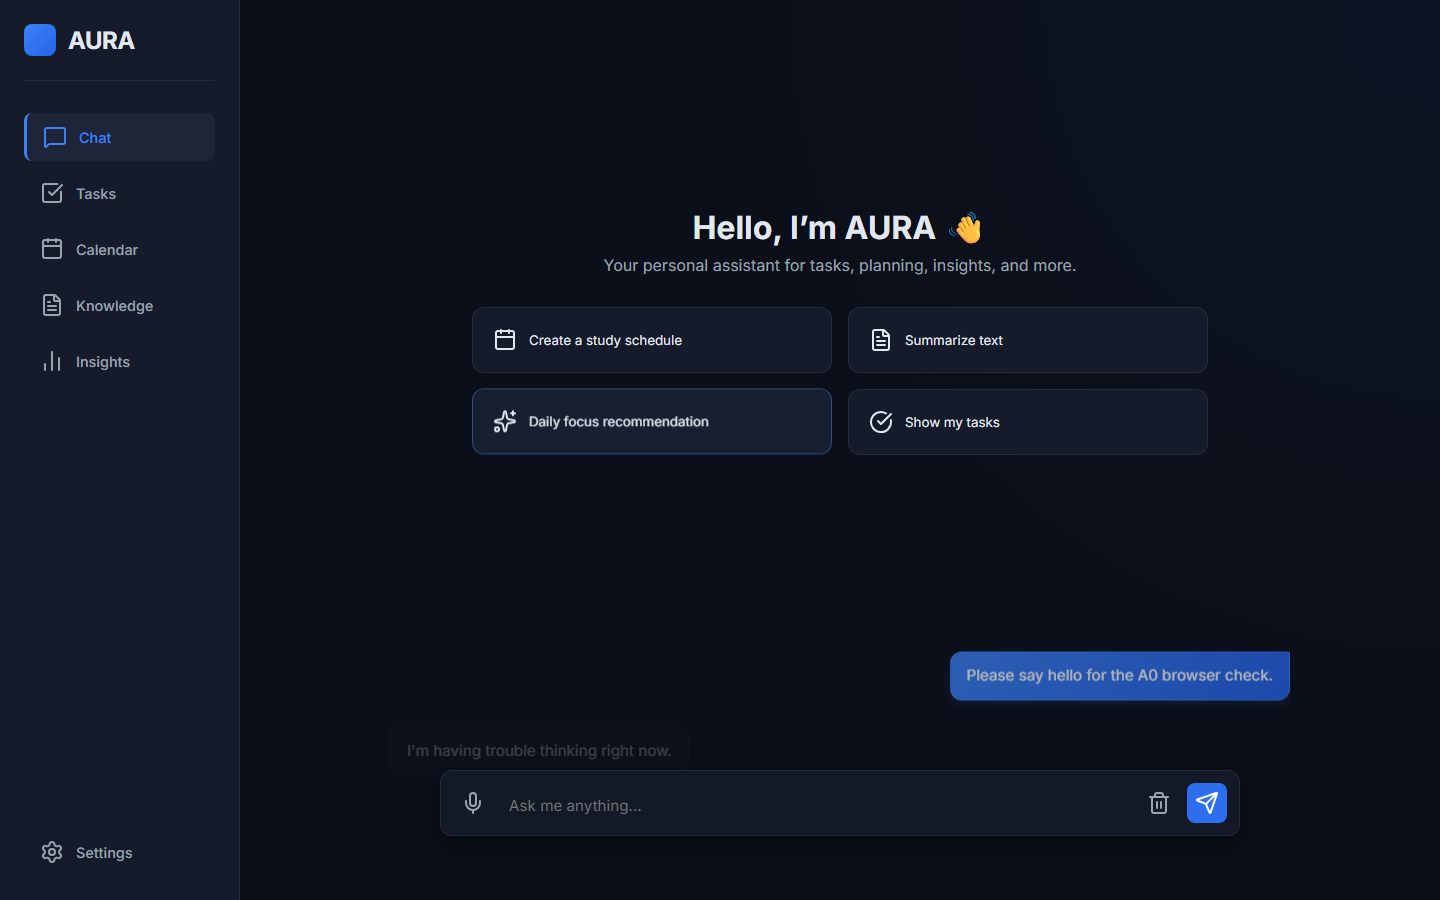
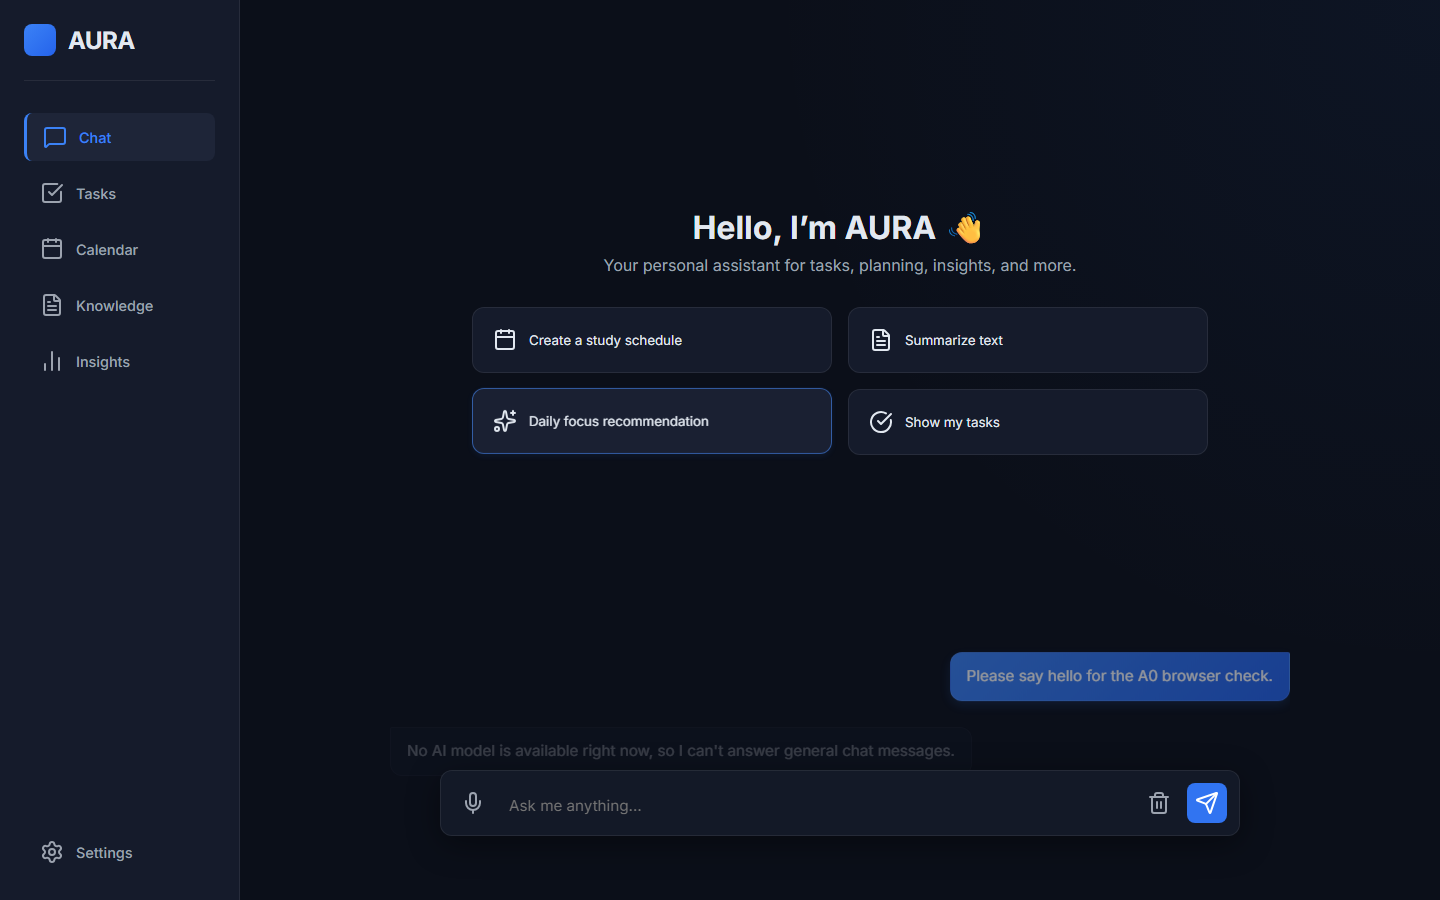
fix: polish A0 chat fallback and mobile composer

Changed region(s): [[0.6562, 0.7156, 0.9062, 0.7778], [0.4375, 0.8089, 0.6562, 0.84], [0.2812, 0.8089, 0.4062, 0.84]]

diff --git a/frontend/css/styles.css b/frontend/css/styles.css
@@ -1430,3 +1430,13 @@ textarea {
         grid-template-columns: 1fr;
     }
 }
+
+@media (max-width: 360px) {
+    .input-area {
+        width: calc(100% + 1rem);
+    }
+
+    .input-container {
+        gap: 0.25rem;
+    }
+}

diff --git a/tests/browser/test_frontend_smoke.py b/tests/browser/test_frontend_smoke.py
@@ -41,6 +41,7 @@ _VIEWPORTS = (
     (390, 844),
     (320, 844),
 )
+NO_MODEL_CHAT_RESPONSE = "No AI model is available right now, so I can't answer general chat messages."
 _PROJECT_ROOT = Path(__file__).resolve().parents[2]
 
 
@@ -515,6 +516,13 @@ def test_chat_returns_a_real_graceful_no_model_response(
 ) -> None:
     _sign_in(browser_session, browser_account)
     page = browser_session.page
+    chat_responses: list[object] = []
+    page.on(
+        "response",
+        lambda response: chat_responses.append(response)
+        if urlsplit(response.url).path == "/api/chat"
+        else None,
+    )
     page.locator("#chat-input").fill("Please say hello for the A0 browser check.")
     page.locator(".send-btn").click()
     response = page.locator(".message.assistant .message-content").last
@@ -523,12 +531,77 @@ def test_chat_returns_a_real_graceful_no_model_response(
         "() => !document.querySelector('.message.assistant.loading')"
     )
     response_text = response.inner_text().strip()
-    assert response_text
-    assert "I encountered an error" not in response_text
+    assert response_text == NO_MODEL_CHAT_RESPONSE
+    assert chat_responses, "The authenticated Chat API did not return a response."
+    api_response = chat_responses[-1]
+    assert api_response.status == 200
+    api_payload = api_response.json()
+    assert api_payload["response"] == NO_MODEL_CHAT_RESPONSE
+    assert isinstance(api_payload.get("action_taken"), str)
+    assert isinstance(api_payload.get("data"), dict)
+    assert isinstance(api_payload.get("suggestions"), list)
     _capture(browser_session, "chat-1440x900.png")
-    page.set_viewport_size({"width": 390, "height": 844})
-    page.wait_for_timeout(350)
-    _capture(browser_session, "chat-390x844.png")
+
+    geometry: list[dict[str, object]] = []
+    for width, height in ((390, 844), (320, 844)):
+        page.set_viewport_size({"width": width, "height": height})
+        page.locator("#chat-history").evaluate(
+            "element => { element.scrollTop = element.scrollHeight; }"
+        )
+        page.wait_for_timeout(350)
+        message_bounds = response.bounding_box()
+        composer_bounds = page.locator(".input-area").bounding_box()
+        history_bounds = page.locator("#chat-history").bounding_box()
+        input_geometry = page.locator("#chat-input").evaluate(
+            """element => {
+                const style = getComputedStyle(element);
+                const canvas = document.createElement('canvas');
+                const context = canvas.getContext('2d');
+                context.font = style.font;
+                return {
+                    width: element.getBoundingClientRect().width,
+                    height: element.getBoundingClientRect().height,
+                    available_width: element.clientWidth
+                        - parseFloat(style.paddingLeft)
+                        - parseFloat(style.paddingRight),
+                    placeholder_width: context.measureText(element.placeholder).width,
+                };
+            }"""
+        )
+        assert message_bounds is not None
+        assert composer_bounds is not None
+        assert history_bounds is not None
+        message_bottom = message_bounds["y"] + message_bounds["height"]
+        assert message_bottom <= composer_bounds["y"], (
+            f"Assistant message is obscured by the composer at {width}x{height}: "
+            f"message={message_bounds}, composer={composer_bounds}"
+        )
+        history_bottom = history_bounds["y"] + history_bounds["height"]
+        assert history_bounds["y"] <= message_bounds["y"]
+        assert message_bottom <= history_bottom
+        assert input_geometry["placeholder_width"] <= input_geometry["available_width"], (
+            f"Composer placeholder is clipped at {width}x{height}: {input_geometry}"
+        )
+        assert composer_bounds["x"] >= 0
+        assert composer_bounds["x"] + composer_bounds["width"] <= width
+        assert composer_bounds["y"] + composer_bounds["height"] <= height
+        geometry.append(
+            {
+                "width": width,
+                "height": height,
+                "assistant_message": message_bounds,
+                "composer": composer_bounds,
+                "input": input_geometry,
+                "vertical_gap": composer_bounds["y"] - message_bottom,
+            }
+        )
+        _capture(browser_session, f"chat-{width}x{height}.png")
+
+    evidence_dir = os.getenv("AURA_BROWSER_EVIDENCE_DIR")
+    if evidence_dir:
+        geometry_path = Path(evidence_dir) / "chat-geometry-measurements.json"
+        geometry_path.parent.mkdir(parents=True, exist_ok=True)
+        geometry_path.write_text(json.dumps(geometry, indent=2), encoding="utf-8")
     _assert_no_uncaught_errors(browser_session)
 
 

diff --git a/backend/app/services/chat_service.py b/backend/app/services/chat_service.py
@@ -5,6 +5,7 @@ from datetime import datetime, timedelta
 
 from sqlalchemy.orm import Session
 
+from ..config import config
 from ..database import utc_now
 from ..models.llm_models import llm
 from ..models.sql_models import ChatHistory, Task, User
@@ -872,6 +873,13 @@ END UNTRUSTED RETRIEVED DOCUMENT DATA
     async def handle_general_chat(
         self, user_id: int, message: str, db: Session, context: dict = None
     ):
+        if llm.llm is None and not config.model_path.is_file():
+            return {
+                "response": "No AI model is available right now, so I can't answer general chat messages.",
+                "action_taken": "error",
+                "data": {},
+            }
+
         try:
             # Get user context (tasks)
             task_context = self.get_user_context(user_id, db)

diff --git a/docs/evidence/a0-foundation/A0_R1_REVIEW.md b/docs/evidence/a0-foundation/A0_R1_REVIEW.md
@@ -1,0 +1,41 @@
+# A0-R1 Final Corrective Pass
+
+## Scope and repository state
+
+The pass started on `feat/a0-foundation` at `823ef470c8ae231abdb78dffe431293f0d5210ab` with a clean working tree. It changes only the no-model general-chat response, the 320px composer layout and its browser regression, and the CI push branch filter. No security test files or authentication code changed.
+
+## Corrections
+
+- General chat now returns: `No AI model is available right now, so I can't answer general chat messages.` when no model is loaded or configured. The response remains an authenticated HTTP 200 with the existing `response`, `action_taken`, `data`, and `suggestions` fields. No internal exception or model path is returned to the user.
+- The real-browser test asserts that exact message from both the UI and authenticated `/api/chat` response, checks the response shape, and verifies no assistant-message/composer overlap or clipped composer placeholder at 390×844 and 320×844.
+- At 320px, the placeholder previously measured 133px while the textarea had only 95px of content width. A max-width 360px CSS rule widens the composer by 1rem and reduces its internal gap. The placeholder now has 138px of available width. At both widths the assistant message ends 14px above the composer.
+- CI push triggers now include `feat/**` in addition to `main`. The existing unrestricted pull-request trigger and all job definitions remain unchanged. No deployment job or step was added.
+
+## Verification
+
+Commands below ran with the clean Windows environments recorded in `TEST_RESULTS.md`.
+
+| Command | Result |
+|---|---|
+| `python -m pytest tests/browser/test_frontend_smoke.py -m browser -k test_chat_returns_a_real_graceful_no_model_response -q --tb=short` | `1 passed, 6 deselected` after the fix; the exact API/UI fallback and both geometry assertions passed. |
+| `python -m pytest -m "not browser" -q --tb=short` on Python 3.11.7 | `97 passed, 7 deselected, 3 warnings` in 21.00s. |
+| `python -m pytest -m "not browser" -q --tb=short` on Python 3.12.10 | `97 passed, 7 deselected, 4 warnings` in 22.21s. |
+| `python -m pytest -m browser -q --tb=short` on Python 3.11.7 | `7 passed, 97 deselected, 3 warnings` in 45.46s. |
+| `python -m compileall -q backend tests scripts` | Passed. |
+| `python -m ruff check backend tests scripts --select E4,E7,E9,F` | Passed. |
+| `node --check` across `frontend/` JavaScript files | 14 files passed. |
+| `node tests/frontend_contracts.test.mjs` | Passed. |
+| PyYAML parse and trigger assertion for `.github/workflows/ci.yml` | Passed; verified `main`, `feat/**`, and `pull_request`. |
+| `git diff --check` | Passed. |
+
+The backend suites still include all existing security tests; no security test files were removed or altered. Hosted CI was not run because the branch was not pushed.
+
+## Evidence
+
+- `final/chat-targeted-test.txt` — final affected browser test.
+- `final/a0-r1-py311-backend.txt` and `final/a0-r1-py312-backend.txt` — complete backend runs.
+- `final/a0-r1-browser-suite.txt` — complete browser run.
+- `final/a0-r1-static-checks.txt` — compile, lint, frontend, and CI trigger checks.
+- `final/chat-geometry-measurements.json` — message, composer, and input geometry at both requested viewports.
+- `final/screenshots/chat-390x844.png` and `final/screenshots/chat-320x844.png` — final browser captures.
+- `final/chat-geometry-red.txt` — regression failure before the narrow-screen CSS correction, showing the clipped 320px placeholder.

diff --git a/docs/evidence/a0-foundation/SOURCE_CHANGES.md b/docs/evidence/a0-foundation/SOURCE_CHANGES.md
@@ -2,13 +2,14 @@
 
 ## Application and configuration changes
 
-- `.github/workflows/ci.yml` — Linux Python 3.11/3.12 checks, Windows Python 3.12 compatibility, frontend checks, and Playwright browser regressions. The existing localhost container smoke job was retained; no external deployment was performed.
+- `.github/workflows/ci.yml` — Linux Python 3.11/3.12 checks, Windows Python 3.12 compatibility, frontend checks, and Playwright browser regressions; A0-R1 also enables pushes to `feat/**`. The existing pull-request trigger and localhost container smoke job were retained; no external deployment was performed.
 - `backend/app/main.py` — equivalent FastAPI lifespan compatibility for current Starlette and gzip compression scoped to static-file responses; removed remote CDN hosts from CSP.
+- `backend/app/services/chat_service.py` — return a clear no-AI-model response for general chat when no model is loaded or configured; keep the existing response fields.
 - `frontend/index.html` — fixed-version local library URLs, dead Recents/Saved/Projects removal, and accessible navigation/menu labels.
-- `frontend/css/styles.css` — local font faces, no Google Fonts import, removed dead-entry styles, and responsive mobile navigation/touch target fixes.
+- `frontend/css/styles.css` — local font faces, no Google Fonts import, removed dead-entry styles, responsive mobile navigation/touch target fixes, and a 320px composer fit correction.
 - `frontend/js/calendar.js`, `frontend/js/main.js`, `frontend/js/settings.js`, `frontend/js/tasks.js`, `frontend/js/upload.js` — safe icon refresh and unauthenticated initial-load handling so a missing icon or absent sign-in token does not block the application.
 - `requirements.txt`, `requirements-dev.txt`, `requirements-browser.txt` — exact Python 3.11/3.12 core, test, and browser dependency pins.
-- `tests/browser/test_frontend_smoke.py` — real local backend/browser suite with strict HTTP/WebSocket hostname guards and seven end-to-end cases.
+- `tests/browser/test_frontend_smoke.py` — real local backend/browser suite with strict HTTP/WebSocket hostname guards, exact authenticated no-model API/UI assertions, and 390px/320px message/composer geometry checks.
 - `tests/test_foundation.py`, `tests/test_frontend_contracts.py` — lifespan/model-free startup and local/versioned browser dependency contract coverage.
 
 ## Added runtime assets
@@ -35,7 +36,8 @@
 - `docs/evidence/a0-foundation/ASSET_INVENTORY.md`
 - `docs/evidence/a0-foundation/SOURCE_CHANGES.md`
 - `docs/evidence/a0-foundation/A0_REPORT.md`
+- `docs/evidence/a0-foundation/A0_R1_REVIEW.md`
 - `docs/evidence/a0-foundation/baseline/` — pre-change screenshots, browser/network logs, and the expected red run against the unmodified app.
-- `docs/evidence/a0-foundation/final/` — Python results, browser results, layout/payload measurements, screenshots, and `recordings/a0-user-journey.webm`.
+- `docs/evidence/a0-foundation/final/` — Python results, browser results, layout/payload measurements, Chat geometry measurements, screenshots at 390×844 and 320×844, and `recordings/a0-user-journey.webm`.
 
 The baseline Playwright CLI snapshots and console log are preserved under `docs/evidence/a0-foundation/baseline/playwright-cli/` as supplemental raw evidence. Browser-generated test identifiers are disposable test data; no credentials or tokens are included.

diff --git a/docs/evidence/a0-foundation/A0_REPORT.md b/docs/evidence/a0-foundation/A0_REPORT.md
@@ -10,6 +10,7 @@ This is an implementation status, not owner acceptance. Work stayed on `feat/a0-
 
 - Local, fixed-version Lucide and Chart.js plus local Inter, Sora, and JetBrains Mono assets replaced browser CDN/font references. A missing Lucide file no longer blocks sign-in.
 - Core dependencies are exact stable pins. Clean Windows Python 3.11.7 and 3.12.10 installs succeeded; `pip check` was clean and both full backend runs passed.
+- A0-R1 now returns a user-facing no-model Chat explanation; the authenticated response schema remains intact. The 320px composer keeps its placeholder visible, with no message overlap at 390px or 320px.
 - Recents, Saved, and Projects were removed; Chat, Tasks, Calendar, Knowledge, Insights, and Settings remain functional and keyboard reachable.
 - Seven real Playwright checks passed against a local Uvicorn server, temporary SQLite, and no LLM. Final tests observed zero external host attempts and zero uncaught JavaScript errors.
 - Responsive layout checks covered 1440, 1024, 768, 390, and 320 CSS-pixel widths. Screenshots and a browser recording are retained in `final/`.
@@ -23,6 +24,7 @@ This is an implementation status, not owner acceptance. Work stayed on `feat/a0-
 - `SECURITY_REGRESSION.md` — preserved security invariants and test results.
 - `ASSET_INVENTORY.md` — assets, licenses, hashes, and before/after payload.
 - `SOURCE_CHANGES.md` — changed-file inventory.
+- `A0_R1_REVIEW.md` — final corrective pass, exact commands, results, and new evidence.
 - `baseline/BASELINE.md` and `final/` — reproducible test, screenshot, recording, and measurement artifacts.
 
 ## Remaining issues

diff --git a/docs/evidence/a0-foundation/TEST_RESULTS.md b/docs/evidence/a0-foundation/TEST_RESULTS.md
@@ -41,3 +41,7 @@ The browser tests cover actual account registration/sign-in, failure-safe icon i
 The final pytest runs reported three existing Pydantic class-based `Config` deprecation warnings. Python 3.12 also reported the existing `tarfile.extractall()` future-default warning in `scripts/backup.py:62`. Neither warning caused a failure; these unrelated compatibility cleanups were left outside A0.
 
 The files `final/implementation-iteration-initial-failure.txt` and `final/targeted-browser-checks.txt` preserve intermediate red/diagnostic runs from before the final browser fixes. The authoritative final browser result is `final/browser-suite.txt` and the last seven rows in `final/browser-run-summary.jsonl`.
+
+## A0-R1 corrective rerun
+
+The A0-R1 corrective pass reran both complete deterministic backend suites and the complete real-browser suite after the Chat fallback, narrow composer, and CI trigger updates. Exact commands, individual durations, and new evidence files are in `A0_R1_REVIEW.md`.
